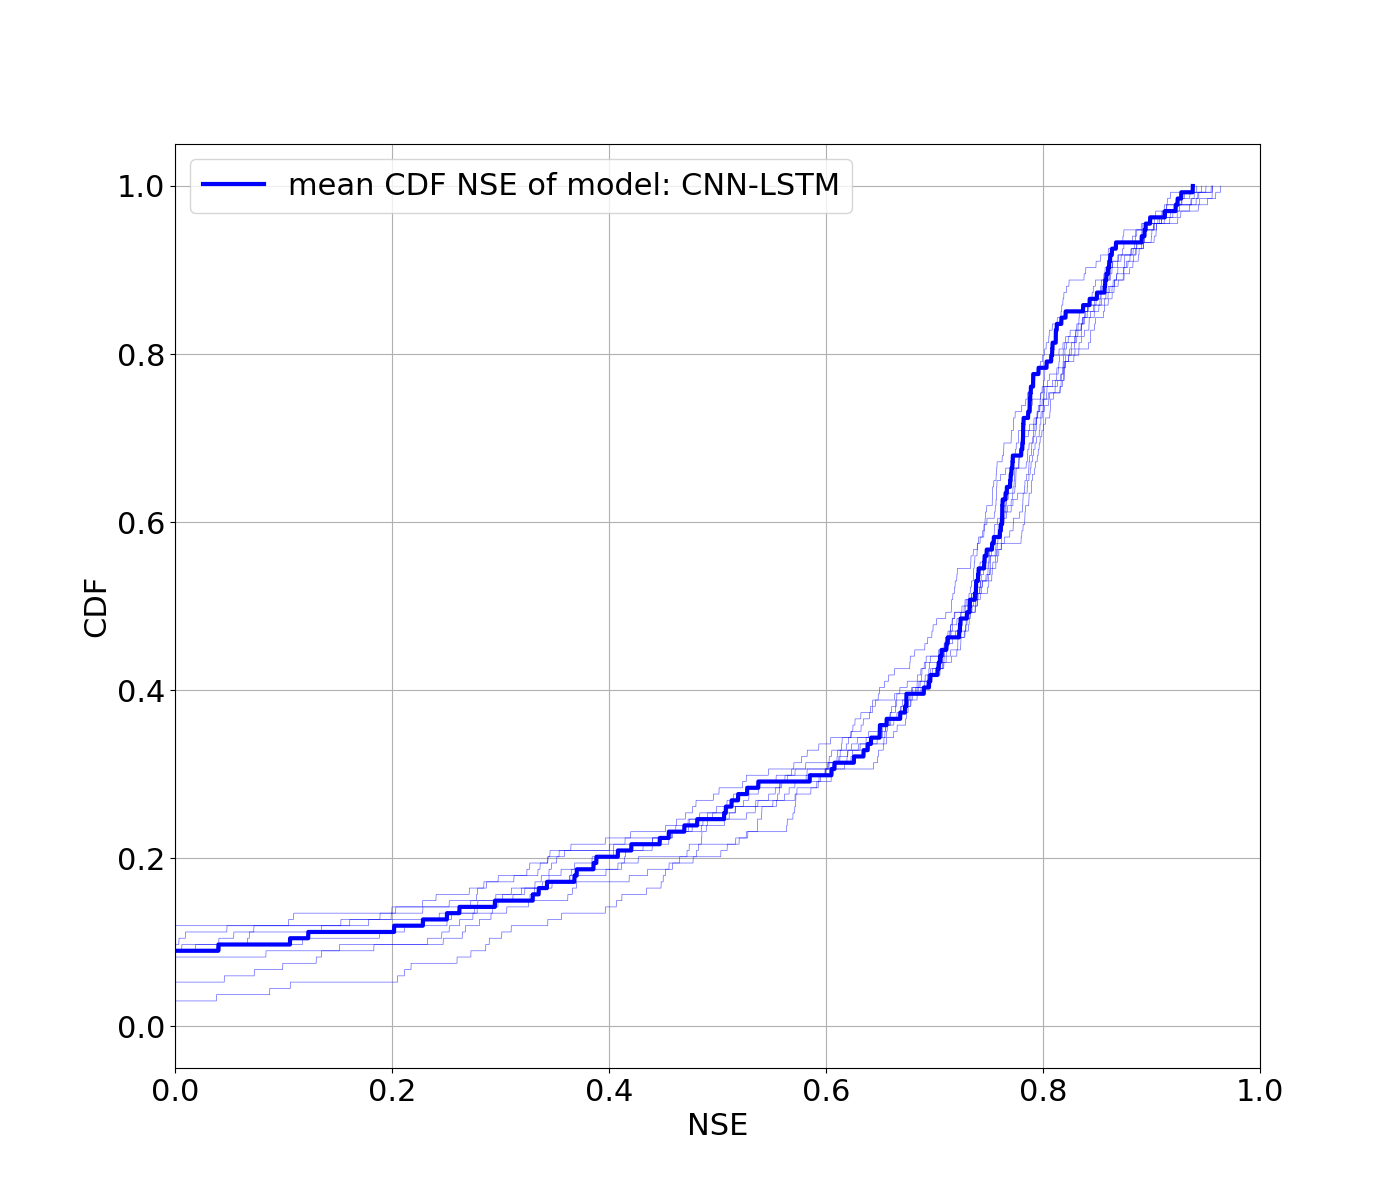
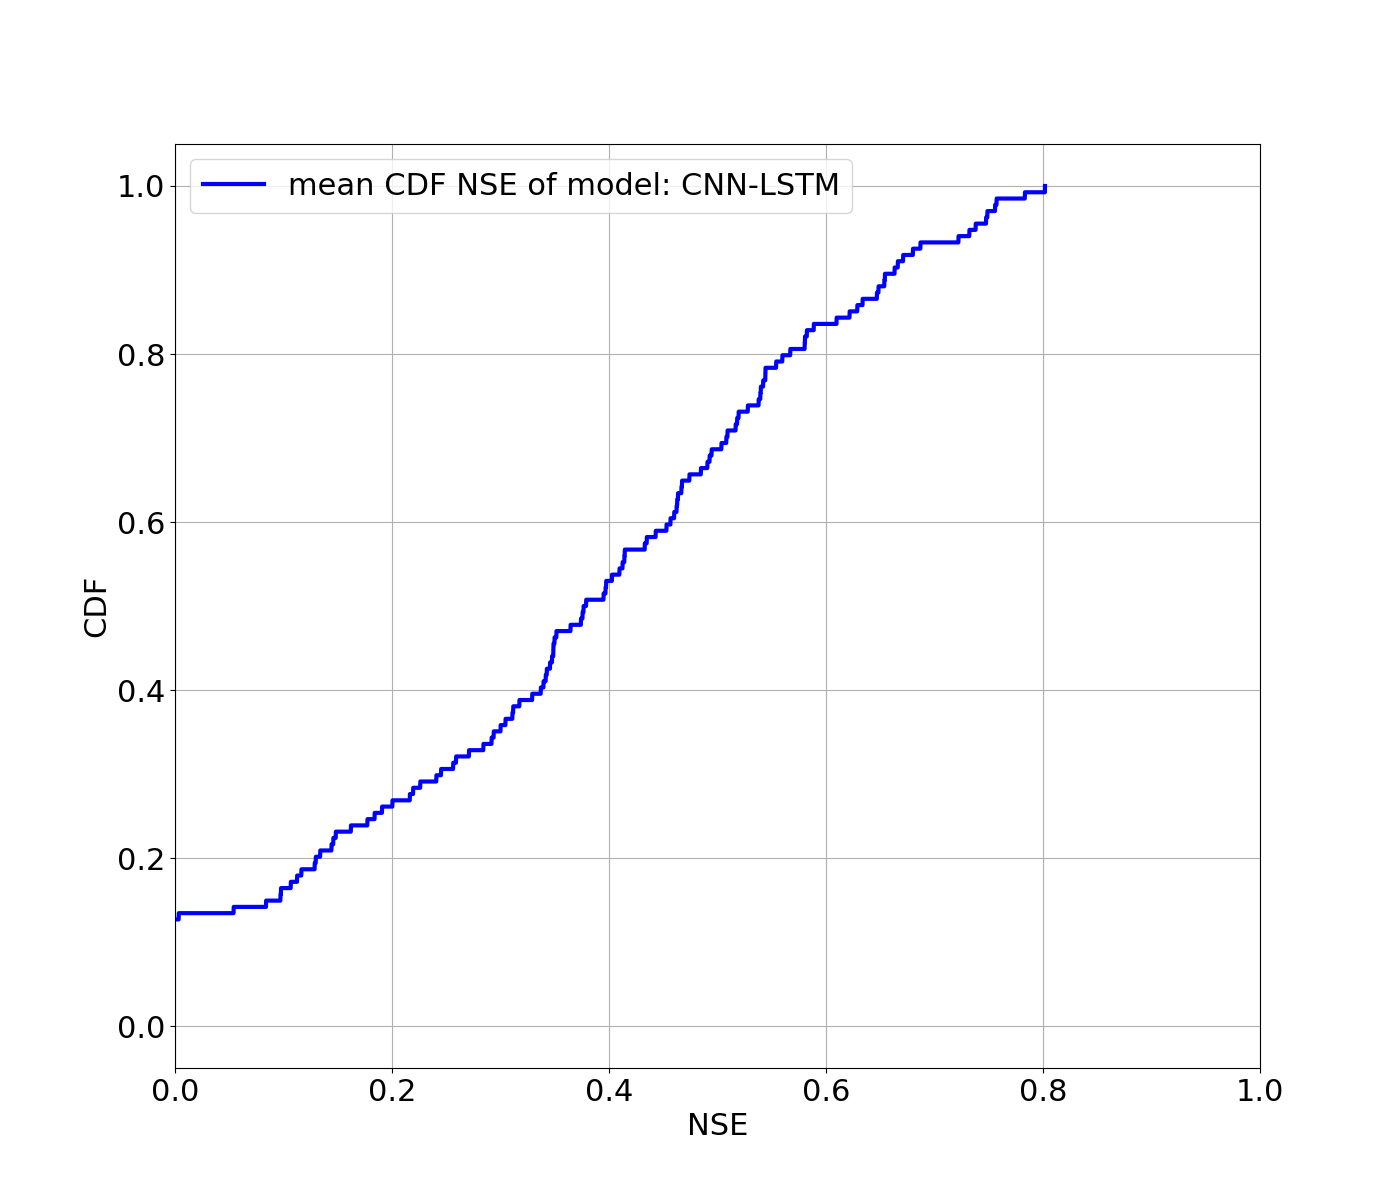
another change to random noise in CAMELS

diff --git a/src/CAMELS_dataset.py b/src/CAMELS_dataset.py
@@ -434,8 +434,11 @@ class Dataset_CAMELS(FloodML_Base_Dataset):
                     for i in range(X_data_spatial.shape[0]):
                         X_data_spatial[np.isnan(X_data_spatial)] = 0
                         if self.use_random_noise_spatial:
-                            X_data_spatial_list.append(
-                                np.expand_dims(np.random.normal(0.0, 1.0, (self.max_dim, self.max_dim)), axis=0))
+                            X_data_spatial_of_day = X_data_spatial[i, :, :].squeeze()
+                            random_noise_spatial = np.expand_dims(np.random.normal(0.0, 1.0, (
+                                self.max_dim, self.max_dim)) * X_data_spatial_of_day.mean(), axis=0)
+                            random_noise_spatial[X_data_spatial_of_day == 0] = 0.0
+                            X_data_spatial_list.append(random_noise_spatial)
                         elif self.use_zeros_spatial:
                             X_data_spatial_list.append(np.expand_dims(np.zeros((self.max_dim, self.max_dim)), axis=0))
                         elif self.use_super_resolution:

diff --git a/src/create_CDF_NSE_comparison_plot_from_slurm_output.py b/src/create_CDF_NSE_comparison_plot_from_slurm_output.py
@@ -150,8 +150,9 @@ def calc_dicts_from_all_runs_and_all_files(input_file_paths):
 
 
 def plot_NSE_CDF_graphs_my_code():
-    input_file_names = ["slurm-17775252.out", "slurm-17782018.out", "slurm-17828539.out",
-                        "slurm-17832148.out", "slurm-17837642.out", "slurm-18941386.out"]
+    # input_file_names = ["slurm-17775252.out", "slurm-17782018.out", "slurm-17828539.out",
+    #                     "slurm-17832148.out", "slurm-17837642.out", "slurm-18941386.out"]
+    input_file_names = ["slurm-19089603.out", "slurm-19100407.out"]
     input_file_paths = [Path(f"../slurm_output_files/slurm_files_ensemble_comparison/{file_name}").resolve() for
                         file_name in input_file_names]
     dict_all_runs_from_all_files, dict_avg_runs_from_all_files = calc_dicts_from_all_runs_and_all_files(

diff --git a/src/playground.py b/src/playground.py
@@ -209,7 +209,8 @@ def create_iowa_map():
 
 
 def main():
-    create_iowa_map()
+    plot_training_and_validation_losses(
+        Path("../slurm_output_files/slurm_files_ensemble_comparison/slurm-19100407.out").resolve())
 
 
 if __name__ == "__main__":
